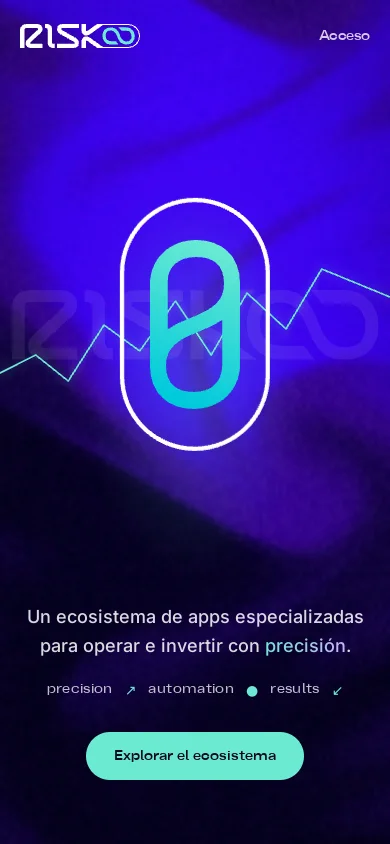
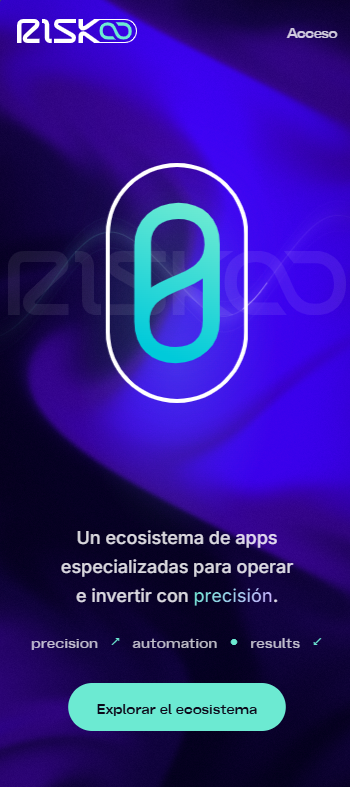
Portafolio v2.1: presentación de productos y capturas actuales de Risko

diff --git a/docs/index.html b/docs/index.html
@@ -297,6 +297,53 @@ img { max-width: 100%; height: auto; display: block; }
 .visual .blueprint.blueprint-dark { background:#1A1716; border-color:#3A3532; }
 .blueprint-dark .bp-description { color:#D8C9B1; border-color:#3A3532; }
 .contact .fine p { color:#BDB7AD; }
+
+/* Casos de producto: identidad, capturas y explicación en una secuencia. */
+.stack { background:#1A1716; --ink:#E6E6E6; --ink-2:#D2CCC2; --line:#4A4440; color:var(--ink); }
+.case.product-case { display:block; }
+.product-head { margin-bottom:28px; }
+.product-title-row { display:flex; align-items:flex-start; justify-content:space-between; gap:32px; }
+.product-title-row > div { min-width:0; max-width:780px; }
+.case.product-case h3 { font:700 clamp(2.1rem,4vw,3.25rem)/1.08 var(--body); letter-spacing:-.025em; margin:0 0 12px; }
+.product-subtitle { font:400 clamp(1.1rem,2vw,1.55rem)/1.4 var(--body); margin:0; max-width:55ch; color:var(--ink-2); }
+.product-logo { flex:0 0 auto; width:132px; height:54px; object-fit:contain; object-position:right center; margin-top:6px; }
+.case.luma .product-logo { width:82px; height:58px; }
+.product-case .visual { position:relative; top:auto; }
+.product-case .visual figure { display:grid; grid-template-columns:minmax(0,1fr) minmax(0,.26fr); gap:18px 22px; align-items:center; }
+.product-case .visual .frame { width:100%; border-radius:5px; }
+.product-case .visual .frame img { width:100%; height:auto; }
+.product-case .visual .phone, .case.luma.product-case .visual .phone { position:static; width:100%; margin:0; border:1px solid var(--line); border-radius:8px; box-shadow:none; }
+.product-case .visual .phone img { width:100%; height:auto; }
+.product-case .visual figcaption { grid-column:1/-1; max-width:none; margin:0; }
+.product-story { margin-top:32px; }
+.product-case .product-story > .value { max-width:86ch; margin:0 0 28px; }
+.product-details { display:grid; grid-template-columns:1fr 1.35fr 1fr; gap:28px; }
+.product-details > div { min-width:0; border-top:1px solid var(--line); padding-top:16px; }
+.product-case .product-details dt { margin-bottom:10px; }
+.product-case .product-details dd { margin:0; }
+.product-tail { display:grid; grid-template-columns:1fr 1.25fr; gap:32px; padding-top:24px; border-top:1px solid var(--line); margin-top:28px; align-items:start; }
+.product-tail .chips { margin-bottom:16px; }
+.product-tail .results { margin:0; }
+.product-case .build { margin-top:28px; }
+.product-case .build-row { max-width:900px; margin:18px auto 0; gap:16px; }
+@media (max-width:900px) {
+ .product-details { grid-template-columns:1fr; gap:20px; }
+ .product-tail { grid-template-columns:1fr; gap:24px; }
+}
+@media (max-width:599px) {
+ .product-title-row { display:grid; grid-template-columns:minmax(0,1fr) auto; gap:12px 16px; }
+ .product-logo { width:84px; height:38px; margin-top:2px; }
+ .case.luma .product-logo { width:52px; height:38px; }
+ .product-title-row > div { display:contents; }
+ .product-title-row h3 { grid-column:1; grid-row:1; margin:0; }
+ .product-title-row .product-logo { grid-column:2; grid-row:1; }
+ .product-title-row .product-subtitle { grid-column:1/-1; grid-row:2; }
+ .product-subtitle { font-size:1.1rem; }
+ .product-case .visual figure { grid-template-columns:1fr; gap:18px; }
+ .product-case .visual .phone, .case.luma.product-case .visual .phone { width:58%; max-width:220px; justify-self:center; }
+ .product-case .build-row { grid-template-columns:repeat(2,minmax(0,1fr)); gap:12px; }
+ .product-case .build-row img { border-width:2px; border-radius:8px; }
+}
 </style>
 </head>
 <body>
@@ -332,7 +379,7 @@ img { max-width: 100%; height: auto; display: block; }
 
   <section class="serve" aria-labelledby="serve-t">
     <div class="wrap">
-      <h2 id="serve-t">Qué hago por un equipo</h2>
+      <h2 id="serve-t">¿Qué hago por un equipo?</h2>
       <div class="serve-grid">
         <div><h3>Saco procesos del correo y la planilla</h3><p>Detecto tareas manuales y repetitivas (aprobaciones, reportes, cargas de datos) y las convierto en flujos automáticos con n8n o Power Automate, con registro, alertas y alguien que decide en los puntos críticos.</p></div>
         <div><h3>Acompaño a quien empieza con IA</h3><p>Escucho qué intenta resolver cada persona y le doy la herramienta justa: una skill a medida, buenas prácticas en Claude o Copilot, o un recorrido con etapas de validación para que lo que construye no alucine.</p></div>
@@ -345,12 +392,12 @@ img { max-width: 100%; height: auto; display: block; }
   <section class="method" id="metodo" aria-labelledby="metodo-t">
     <div class="wrap">
       <div class="intro">
-        <h2 id="metodo-t">Cómo trabajo y cómo acompaño a quien empieza con IA</h2>
+        <h2 id="metodo-t">¿Cómo trabajo y cómo acompaño a quien empieza con IA?</h2>
         <p>La IA escribe rápido; el criterio lo pone una persona. Uso este recorrido en mis proyectos y es el mismo que enseño cuando alguien construye su primera herramienta con Claude, Copilot o n8n.</p>
       </div>
       <div class="track-wrap" id="track"><div class="bar" aria-hidden="true"></div>
       <ol class="track">
-        <li><h3>Problema</h3><p>Qué duele, a quién y cada cuánto.</p></li>
+        <li><h3>Problema</h3><p>¿Qué duele, a quién y cada cuánto?</p></li>
         <li><h3>Especificación</h3><p>Lógica de negocio y casos esperados, antes de escribir un prompt.</p></li>
         <li><h3>Construcción con IA</h3><p>Una skill o un prompt con el contexto justo.</p></li>
         <li><h3>Validación</h3><p>Banco de pruebas con respuestas conocidas.</p></li>
@@ -370,7 +417,7 @@ img { max-width: 100%; height: auto; display: block; }
 
   <section class="stack" aria-label="Stack">
     <div class="wrap">
-      <p><strong>Con qué construyo:</strong> n8n, Claude Code, Codex, Antigravity, MCP, Python, TypeScript, Next.js, Kotlin y Jetpack Compose (Android Studio), PostgreSQL, Firebase, Docker, Coolify, Cloudflare, Vercel, Stripe y Figma. Microsoft Power Platform, en formación.</p>
+      <p><strong>¿Con qué construyo?</strong> n8n, Claude Code, Codex, Antigravity, MCP, Python, TypeScript, Next.js, Kotlin y Jetpack Compose (Android Studio), PostgreSQL, Firebase, Docker, Coolify, Cloudflare, Vercel, Stripe y Figma. Microsoft Power Platform, en formación.</p>
     </div>
   </section>
 
@@ -379,52 +426,43 @@ img { max-width: 100%; height: auto; display: block; }
       <h2 id="casos-t">Casos</h2>
       <p class="lead">Sistemas reales, en producción o en uso. El código es privado: cada caso explica el problema, lo que construí y por qué importa, y hago el recorrido técnico en vivo a pedido.</p>
 
-      <article class="case flagship">
-        <div>
+      <article class="case flagship product-case">
+        <header class="product-head">
           <p class="area">Producto, automatización e IA · caso principal</p>
-          <h3>Risko: un ecosistema de apps especializadas para trading e inversión</h3>
+          <div class="product-title-row">
+            <div><h3>Risko</h3><p class="product-subtitle">un ecosistema de apps especializadas para trading e inversión</p></div>
+            <img class="product-logo" src="img/risko-logo-dark.svg" alt="" aria-hidden="true" width="499" height="176" loading="lazy">
+          </div>
+        </header>
+        <div class="visual has-phone">
+          <figure>
+            <a class="frame" href="https://risko.app" target="_blank" rel="noopener"><img src="img/risko-landing-hero-desktop.webp" alt="Landing actual de Risko: símbolo turquesa sobre fondo violeta y acceso al ecosistema." width="1872" height="926" loading="lazy"></a>
+            <div class="phone"><img src="img/risko-landing-hero-mobile.webp" alt="Landing de Risko en el celular." width="350" height="787" loading="lazy"></div>
+            <figcaption>Landing del ecosistema en <a href="https://risko.app" target="_blank" rel="noopener">risko.app</a>. Las apps: <a href="https://lotsize.risko.app" target="_blank" rel="noopener">Lot Size</a>, <a href="https://safer.risko.app" target="_blank" rel="noopener">Safer</a> y <a href="https://backtest.risko.app" target="_blank" rel="noopener">Vector</a>; Logicore es de acceso privado. <a href="https://system.risko.app" target="_blank" rel="noopener">Sistema de marca</a>.</figcaption>
+          </figure>
+        </div>
+        <div class="product-story">
           <p class="value">Diseñé, construí y opero un ecosistema completo: cuatro apps que cubren cada paso de la operación, con una marca, un sistema de íconos, una landing y una infraestructura comunes.</p>
-          <dl>
-            <dt>El problema</dt><dd>Quien opera en los mercados trabaja con herramientas sueltas: una calculadora en un sitio, alertas en otro, reportes en una hoja de cálculo y la gestión del riesgo en la cabeza. Nada conversa con nada.</dd>
-            <dt>Lo que construí</dt><dd><b>Lot Size</b> calcula el riesgo de cada operación. <b>Safer</b> protege las operaciones abiertas con stops automáticos y se vende con login, licencias y pago con billeteras Web3. <b>Vector</b> analiza resultados de backtesting de MT5 con métricas de nivel institucional. <b>Logicore</b> automatiza la inversión en cripto, futuros y forex con un motor de backtesting propio. Las une una landing de producto (risko.app), un sistema de marca e íconos (system.risko.app) y un servidor 24/7 con n8n, PostgreSQL y 10 terminales de MT5.</dd>
-            <dt>Por qué importa</dt><dd>Es producto de punta a punta: estrategia, diseño, desarrollo asistido por IA, pagos, infraestructura y operación continua, en un dominio donde un error cuesta dinero real.</dd>
-          </dl>
-          <ul class="chips"><li>Next.js</li><li>React</li><li>Python</li><li>PostgreSQL</li><li>n8n</li><li>MQL5</li><li>Web3</li><li>Coolify</li></ul>
-          <ul class="results">
+          <dl class="product-details"><div><dt>El problema</dt><dd>Quien opera en los mercados trabaja con herramientas sueltas: una calculadora en un sitio, alertas en otro, reportes en una hoja de cálculo y la gestión del riesgo en la cabeza. Nada conversa con nada.</dd></div>
+<div><dt>Lo que construí</dt><dd><b>Lot Size</b> calcula el riesgo de cada operación. <b>Safer</b> protege las operaciones abiertas con stops automáticos y se vende con login, licencias y pago con billeteras Web3. <b>Vector</b> analiza resultados de backtesting de MT5 con métricas de nivel institucional. <b>Logicore</b> automatiza la inversión en cripto, futuros y forex con un motor de backtesting propio. Las une una landing de producto (risko.app), un sistema de marca e íconos (system.risko.app) y un servidor 24/7 con n8n, PostgreSQL y 10 terminales de MT5.</dd></div>
+<div><dt>¿Por qué importa?</dt><dd>Es producto de punta a punta: estrategia, diseño, desarrollo asistido por IA, pagos, infraestructura y operación continua, en un dominio donde un error cuesta dinero real.</dd></div></dl>
+          <div class="product-tail"><div class="product-meta"><ul class="chips"><li>Next.js</li><li>React</li><li>Python</li><li>PostgreSQL</li><li>n8n</li><li>MQL5</li><li>Web3</li><li>Coolify</li></ul><a class="link" href="https://github.com/veneland/portafolio/tree/main/casos/risko-ecosistema">Ver el caso completo</a></div><ul class="results">
             <li><b>3</b> apps públicas en línea y Logicore con acceso privado, unidas en <b>risko.app</b></li>
             <li><b>2.536</b> variantes de estrategias evaluadas con <b>189</b> pruebas automatizadas</li>
             <li>Login, licencias y pago con <b>billeteras Web3</b> verificado on-chain</li>
             <li>Sistema de marca e íconos propio en <b>system.risko.app</b></li>
-          </ul>
-          <a class="link" href="https://github.com/veneland/portafolio/tree/main/casos/risko-ecosistema">Ver el caso completo</a>
-        </div>
-        <div class="visual has-phone">
-          <figure>
-            <a class="frame" href="https://risko.app" target="_blank" rel="noopener"><img src="img/risko-landing-hero-desktop.webp" alt="Landing de Risko: la cápsula de la marca sobre un fondo violeta, atravesada por una línea de precio." width="1200" height="750" loading="lazy"></a>
-            <div class="phone"><img src="img/risko-landing-hero-mobile.webp" alt="Landing de Risko en el celular." width="390" height="844" loading="lazy"></div>
-            <figcaption>Landing del ecosistema en <a href="https://risko.app" target="_blank" rel="noopener">risko.app</a>. Las apps: <a href="https://lotsize.risko.app" target="_blank" rel="noopener">Lot Size</a>, <a href="https://safer.risko.app" target="_blank" rel="noopener">Safer</a> y <a href="https://backtest.risko.app" target="_blank" rel="noopener">Vector</a>; Logicore es de acceso privado. <a href="https://system.risko.app" target="_blank" rel="noopener">Sistema de marca</a>.</figcaption>
-          </figure>
+          </ul></div>
         </div>
       </article>
 
-      <article class="case">
-        <div>
+      <article class="case product-case">
+        <header class="product-head">
           <p class="area">Diseño de producto y UX/UI</p>
-          <h3>el_espacio: de clases por Meet y correcciones en Word a un estudio editorial propio</h3>
-          <p class="value">Un producto editorial a medida para talleres de poesía y narrativa: un solo lugar donde cada alumna escribe sus consignas, conversa con la profesora y recibe su devolución.</p>
-          <dl>
-            <dt>El problema</dt><dd>La profesora armaba las consignas a mano, las enviaba por correo con una fecha de Meet para el encuentro y recibía los textos en Word, mail por mail. Con unas 36 alumnas en grupos de 6 a 8 y tres horarios, todo dependía de su bandeja de entrada.</dd>
-            <dt>Lo que construí</dt><dd>Diseñé el producto completo y lo estoy llevando a producción por fases. Ya está en línea el sitio público, con identidad editorial y una inscripción con pago integrado. En desarrollo: el panel de la profesora, conectado a Google (Calendar, Meet, Drive, Docs y Gmail) para que los encuentros, las consignas y los documentos se creen y se sincronicen solos, y el panel de cada alumna, donde edita sus consignas y recibe el feedback en el mismo lugar.</dd>
-            <dt>Por qué importa</dt><dd>No existe otro espacio editorial así: sin clases enlatadas, con un lugar propio para escribir y trabajar con la profesora. Es lo mismo que pide cualquier empresa al digitalizar un proceso: entender cómo trabaja la gente, automatizar lo repetitivo y cuidar la experiencia.</dd>
-          </dl>
-          <ul class="chips"><li>Next.js 15</li><li>React 19</li><li>Firebase</li><li>Google Workspace</li><li>Stripe</li><li>UX/UI</li></ul>
-          <ul class="results">
-            <li>Sitio público en línea en <b>elespaciolugar.com</b>, con pagos con Stripe en <b>modo live</b></li>
-            <li>Pensado para unas <b>36</b> alumnas en <b>3</b> horarios, sin cambiar de herramienta</li>
-            <li><b>85</b> commits en iteraciones por fases con la clienta</li>
-          </ul>
-          <a class="link" href="https://www.elespaciolugar.com">Visitar el sitio</a>
-        </div>
+          <div class="product-title-row">
+            <div><h3>el_espacio</h3><p class="product-subtitle">de clases por Meet y correcciones en Word a un estudio editorial propio</p></div>
+            <img class="product-logo" src="img/elespacio-logo-light.svg" alt="" aria-hidden="true" width="480" height="168" loading="lazy">
+          </div>
+        </header>
         <div class="visual has-phone">
           <figure>
             <div class="frame"><img src="img/elespacio-home-desktop.webp" alt="Inicio de el_espacio: 'Tu nuevo sitio para escribir'." width="1200" height="750" loading="lazy"></div>
@@ -432,26 +470,27 @@ img { max-width: 100%; height: auto; display: block; }
             <figcaption>Inicio en escritorio e inscripción en el celular. Publicado con autorización de la clienta.</figcaption>
           </figure>
         </div>
+        <div class="product-story">
+          <p class="value">Un producto editorial a medida para talleres de poesía y narrativa: un solo lugar donde cada alumna escribe sus consignas, conversa con la profesora y recibe su devolución.</p>
+          <dl class="product-details"><div><dt>El problema</dt><dd>La profesora armaba las consignas a mano, las enviaba por correo con una fecha de Meet para el encuentro y recibía los textos en Word, mail por mail. Con unas 36 alumnas en grupos de 6 a 8 y tres horarios, todo dependía de su bandeja de entrada.</dd></div>
+<div><dt>Lo que construí</dt><dd>Diseñé el producto completo y lo estoy llevando a producción por fases. Ya está en línea el sitio público, con identidad editorial y una inscripción con pago integrado. En desarrollo: el panel de la profesora, conectado a Google (Calendar, Meet, Drive, Docs y Gmail) para que los encuentros, las consignas y los documentos se creen y se sincronicen solos, y el panel de cada alumna, donde edita sus consignas y recibe el feedback en el mismo lugar.</dd></div>
+<div><dt>¿Por qué importa?</dt><dd>No existe otro espacio editorial así: sin clases enlatadas, con un lugar propio para escribir y trabajar con la profesora. Es lo mismo que pide cualquier empresa al digitalizar un proceso: entender cómo trabaja la gente, automatizar lo repetitivo y cuidar la experiencia.</dd></div></dl>
+          <div class="product-tail"><div class="product-meta"><ul class="chips"><li>Next.js 15</li><li>React 19</li><li>Firebase</li><li>Google Workspace</li><li>Stripe</li><li>UX/UI</li></ul><a class="link" href="https://www.elespaciolugar.com">Visitar el sitio</a></div><ul class="results">
+            <li>Sitio público en línea en <b>elespaciolugar.com</b>, con pagos con Stripe en <b>modo live</b></li>
+            <li>Pensado para unas <b>36</b> alumnas en <b>3</b> horarios, sin cambiar de herramienta</li>
+            <li><b>85</b> commits en iteraciones por fases con la clienta</li>
+          </ul></div>
+        </div>
       </article>
 
-      <article class="case luma">
-        <div>
+      <article class="case luma product-case">
+        <header class="product-head">
           <p class="area">Producto móvil, UX/UI y desarrollo Android</p>
-          <h3>LUMA: una app de música para Android pensada como refugio, no como feed</h3>
-          <p class="value">Diseñé la identidad completa y desarrollo la app nativa: importas tu propia música, suena en segundo plano y se presenta en espacios atmosféricos, sin streaming ni algoritmos que decidan por ti.</p>
-          <dl>
-            <dt>El problema</dt><dd>Las apps de música se volvieron feeds: recomendaciones, anuncios y ruido. Quien tiene su propia biblioteca (MP3, WAV o producciones propias) no tiene un lugar cuidado para escucharla.</dd>
-            <dt>Lo que construí</dt><dd>La identidad es mía: el concepto ("una cabaña en el bosque, en píxeles"), el símbolo de una luz cálida sobre el horizonte con 8 variantes, la paleta de pino, niebla y piedra, y el sistema tipográfico. Claude Design la ordenó en un sistema que los agentes de IA consumen al construir la interfaz. La app es nativa, en Kotlin con Jetpack Compose y Media3: importa MP3, WAV y bibliotecas ZIP por carpetas, arma playlists automáticas, lee las carátulas reales de cada archivo con un respaldo de marca, sigue sonando con la pantalla bloqueada (MediaSession) y tiene un modo silencioso y espacios como Fog, Pines y Snow.</dd>
-            <dt>Por qué importa</dt><dd>Una auditoría de producto con Claude Code, en modo solo lectura, encontró que la interfaz mostraba integraciones con plataformas de streaming que todavía no existían. Las saqué con Codex el mismo día. Esas integraciones siguen en el plan, pero no se muestran hasta que funcionen: una función que la interfaz promete y no cumple es peor que no tenerla.</dd>
-          </dl>
-          <ul class="chips"><li>Kotlin</li><li>Jetpack Compose</li><li>Media3 / ExoPlayer</li><li>Android Studio</li><li>Gemini</li><li>Claude Code</li><li>Codex</li><li>Identidad visual</li></ul>
-          <ul class="results">
-            <li>App instalada y en uso en mi Android: importación, reproducción en segundo plano y carátulas reales</li>
-            <li>Identidad completa: símbolo con <b>8</b> variantes, paleta, tipografía, UI y carátulas</li>
-            <li>Compilación y pruebas unitarias con Gradle verificadas en cada sprint</li>
-          </ul>
-          <a class="link" href="https://github.com/veneland/portafolio/tree/main/casos/08-luma">Ver el caso completo</a>
-        </div>
+          <div class="product-title-row">
+            <div><h3>LUMA</h3><p class="product-subtitle">una app de música para Android pensada como refugio, no como feed</p></div>
+            <img class="product-logo" src="img/luma-logo-dark.svg" alt="" aria-hidden="true" width="373" height="259" loading="lazy">
+          </div>
+        </header>
         <div class="visual has-phone">
           <figure>
             <div class="frame"><img src="img/luma-identidad-hero-desktop.webp" alt="Identidad de LUMA: una luz cálida sobre una línea de horizonte, el logotipo luma y la frase Music without noise." width="1600" height="833" loading="lazy"></div>
@@ -468,6 +507,17 @@ img { max-width: 100%; height: auto; display: block; }
             </div>
           </div>
         </div>
+        <div class="product-story">
+          <p class="value">Diseñé la identidad completa y desarrollo la app nativa: importas tu propia música, suena en segundo plano y se presenta en espacios atmosféricos, sin streaming ni algoritmos que decidan por ti.</p>
+          <dl class="product-details"><div><dt>El problema</dt><dd>Las apps de música se volvieron feeds: recomendaciones, anuncios y ruido. Quien tiene su propia biblioteca (MP3, WAV o producciones propias) no tiene un lugar cuidado para escucharla.</dd></div>
+<div><dt>Lo que construí</dt><dd>La identidad es mía: el concepto ("una cabaña en el bosque, en píxeles"), el símbolo de una luz cálida sobre el horizonte con 8 variantes, la paleta de pino, niebla y piedra, y el sistema tipográfico. Claude Design la ordenó en un sistema que los agentes de IA consumen al construir la interfaz. La app es nativa, en Kotlin con Jetpack Compose y Media3: importa MP3, WAV y bibliotecas ZIP por carpetas, arma playlists automáticas, lee las carátulas reales de cada archivo con un respaldo de marca, sigue sonando con la pantalla bloqueada (MediaSession) y tiene un modo silencioso y espacios como Fog, Pines y Snow.</dd></div>
+<div><dt>¿Por qué importa?</dt><dd>Una auditoría de producto con Claude Code, en modo solo lectura, encontró que la interfaz mostraba integraciones con plataformas de streaming que todavía no existían. Las saqué con Codex el mismo día. Esas integraciones siguen en el plan, pero no se muestran hasta que funcionen: una función que la interfaz promete y no cumple es peor que no tenerla.</dd></div></dl>
+          <div class="product-tail"><div class="product-meta"><ul class="chips"><li>Kotlin</li><li>Jetpack Compose</li><li>Media3 / ExoPlayer</li><li>Android Studio</li><li>Gemini</li><li>Claude Code</li><li>Codex</li><li>Identidad visual</li></ul><a class="link" href="https://github.com/veneland/portafolio/tree/main/casos/08-luma">Ver el caso completo</a></div><ul class="results">
+            <li>App instalada y en uso en mi Android: importación, reproducción en segundo plano y carátulas reales</li>
+            <li>Identidad completa: símbolo con <b>8</b> variantes, paleta, tipografía, UI y carátulas</li>
+            <li>Compilación y pruebas unitarias con Gradle verificadas en cada sprint</li>
+          </ul></div>
+        </div>
       </article>
 
       <article class="case">
@@ -478,7 +528,7 @@ img { max-width: 100%; height: auto; display: block; }
           <dl>
             <dt>El problema</dt><dd>Para saber qué pasaba en 10 cuentas había que abrir cada terminal. No había historial, ni alertas si un terminal se caía, ni reportes periódicos.</dd>
             <dt>Lo que construí</dt><dd>Un EA envía cada evento a n8n, que lo guarda en PostgreSQL y lo publica en Telegram, en el hilo de su cuenta. Flujos programados arman los resúmenes diarios y semanales y vigilan que cada terminal siga vivo. Un dashboard con login seguro muestra el estado completo.</dd>
-            <dt>Por qué importa</dt><dd>Es el mismo problema que en operaciones industriales: supervisar sistemas que corren solos, con alertas confiables, historial y reportes automáticos en lugar de revisiones manuales.</dd>
+            <dt>¿Por qué importa?</dt><dd>Es el mismo problema que en operaciones industriales: supervisar sistemas que corren solos, con alertas confiables, historial y reportes automáticos en lugar de revisiones manuales.</dd>
           </dl>
           <ul class="chips"><li>n8n</li><li>PostgreSQL</li><li>Telegram</li><li>MQL5</li><li>Next.js</li><li>Docker</li></ul>
           <ul class="results">
@@ -504,7 +554,7 @@ img { max-width: 100%; height: auto; display: block; }
           <dl>
             <dt>El problema</dt><dd>Usar varias IA a la vez sin método termina en cambios que nadie revisó, contexto perdido entre sesiones y riesgos con credenciales.</dd>
             <dt>Lo que construí</dt><dd>Un VPS de orquestación: cada agente trabaja en su propia copia del código (git worktrees), con roles definidos (8 subagentes), 12 skills propias y un tablero de tareas compartido. Nada se integra sin pruebas y revisión. Los agentes solo tocan el entorno de desarrollo y las credenciales viven en un gestor de secretos.</dd>
-            <dt>Por qué importa</dt><dd>Las empresas están pasando de usar un chat a coordinar varios agentes. El desafío ya no es generar código, sino gobernarlo: repartir el trabajo, revisarlo y decidir qué pasa a producción.</dd>
+            <dt>¿Por qué importa?</dt><dd>Las empresas están pasando de usar un chat a coordinar varios agentes. El desafío ya no es generar código, sino gobernarlo: repartir el trabajo, revisarlo y decidir qué pasa a producción.</dd>
           </dl>
           <ul class="chips"><li>Claude Code</li><li>Codex</li><li>Antigravity</li><li>OpenCode</li><li>git</li><li>Infisical</li></ul>
           <ul class="results">
@@ -530,7 +580,7 @@ img { max-width: 100%; height: auto; display: block; }
           <dl>
             <dt>El problema</dt><dd>Compilar, lanzar el tester y copiar resultados eran pasos manuales que cortaban el trabajo de los agentes.</dd>
             <dt>Lo que construí</dt><dd>Dos servidores MCP. Uno compila EAs y corre, compara y analiza backtests de MT5, con un módulo de seguridad que le impide enviar órdenes reales. El otro gestiona tareas en TickTick con OAuth 2.0 y una vista previa antes de crear tareas en lote.</dd>
-            <dt>Por qué importa</dt><dd>MCP es el estándar abierto para conectar agentes con herramientas y datos. Construir servidores propios con límites claros es lo que permite usar agentes en procesos reales sin riesgo.</dd>
+            <dt>¿Por qué importa?</dt><dd>MCP es el estándar abierto para conectar agentes con herramientas y datos. Construir servidores propios con límites claros es lo que permite usar agentes en procesos reales sin riesgo.</dd>
           </dl>
           <ul class="chips"><li>MCP</li><li>Python</li><li>TypeScript</li><li>OAuth 2.0</li><li>pytest</li><li>zod</li></ul>
           <ul class="results">
@@ -556,7 +606,7 @@ img { max-width: 100%; height: auto; display: block; }
           <dl>
             <dt>El problema</dt><dd>El servidor había quedado chico y no podía detenerse: de él dependían 10 terminales de trading y toda la automatización.</dd>
             <dt>Lo que construí</dt><dd>Un plan por fases con backups verificados por checksum, restauraciones de prueba antes del corte, cambio de DNS planificado, traspaso instancia por instancia y una auditoría Go/No-Go antes de cancelar el servidor viejo. Esa auditoría detectó un riesgo real y frenó la cancelación hasta resolverlo.</dd>
-            <dt>Por qué importa</dt><dd>Mover sistemas en vivo es una de las tareas de mayor riesgo en infraestructura. Lo que marca la diferencia es el método: probar antes de cortar y saber frenar a tiempo.</dd>
+            <dt>¿Por qué importa?</dt><dd>Mover sistemas en vivo es una de las tareas de mayor riesgo en infraestructura. Lo que marca la diferencia es el método: probar antes de cortar y saber frenar a tiempo.</dd>
           </dl>
           <ul class="chips"><li>Coolify</li><li>Docker</li><li>PostgreSQL</li><li>n8n</li><li>Wine + Xvfb</li><li>Cloudflare</li></ul>
           <ul class="results">
